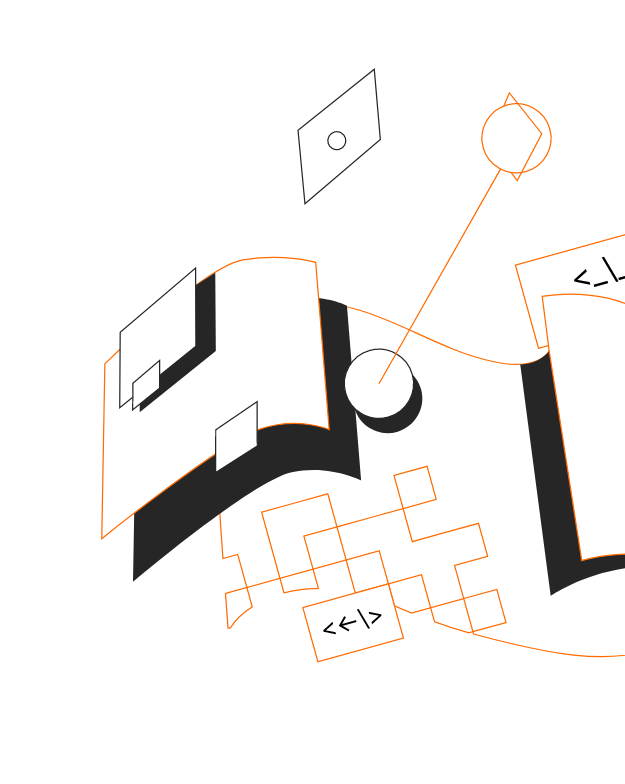
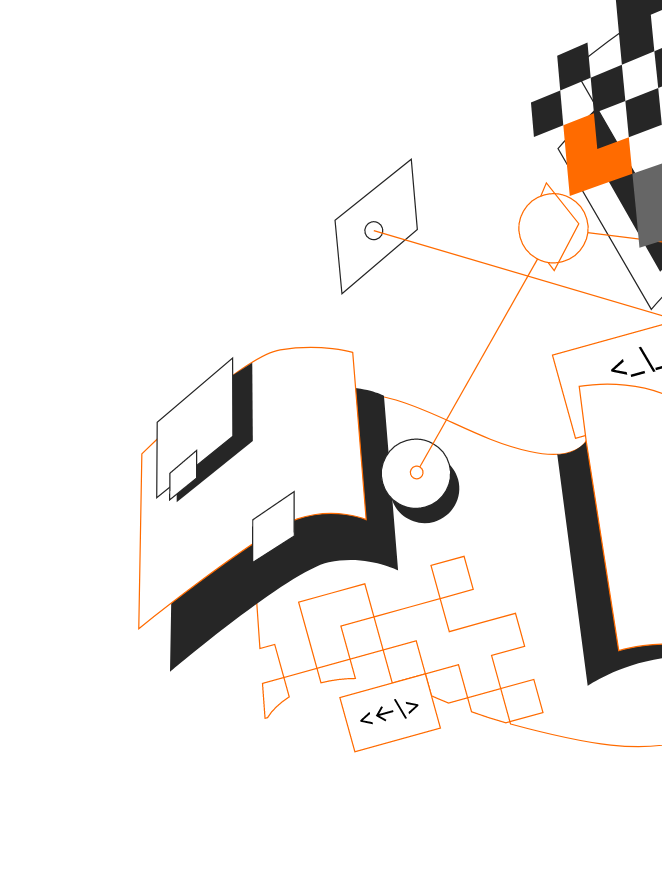
Redo welcome section

diff --git a/index.html b/index.html
@@ -30,9 +30,32 @@
       </ul>
     </nav>
   </header>
-  <section id="welcome" class="welcome-section d-flex w-100">
-    <h1 class="title">HELLO! I'm Roberto</h1>
-    <p>a fullstack web developer</p>
+  <section class="welcome d-flex w-100">
+    <div class="social-box d-flex align-i-center">
+      <ul class="social-list">
+        <li class="item">
+          <a class="profile-link" href="https://github.com/LoboArkano" target="_blank"><i class="fab fa-github"></i></a>
+        </li>
+        <li class="item">
+          <a class="profile-link" href="https://www.linkedin.com/in/jose-roberto-perez-jimenez/" target="_blank"><i class="fab fa-linkedin"></i></a>
+        </li>
+        <li class="item">
+          <a class="profile-link" href="https://angel.co/u/jose-roberto-perez-jimenez" target="_blank"><i class="fab fa-angellist"></i></a>
+        </li>
+        <li class="item">
+          <a class="profile-link" href="https://twitter.com/LoboArcano92" target="_blank"><i class="fab fa-twitter-square"></i></a>
+        </li>
+      </ul>
+    </div>
+    <div class="presentation d-flex">
+      <h1 class="title">Hey There.<br>I'm Roberto</h1>
+      <h2 class="subtitle">I’am a Web Developer</h2>
+      <p class="desc">I can help you build a product , feature or website Look through some of my work and experience! If you like what you see and have a project you need coded, 
+        don’t hestiate to contact me.</p>
+    </div>
+    <div class="main-image-cont">
+      <img class="image w-100 h-100" src="./assets/images/main-background.png" alt="main-background">
+    </div>
   </section>
   <section id="projects" class="projects-section w-100">
     <h2 class="title">These are some of my projects</h2>

diff --git a/assets/stylesheets/style.css b/assets/stylesheets/style.css
@@ -77,4 +77,77 @@ html {
   -webkit-text-decoration: underline 1px #fff;
           text-decoration: underline 1px #fff;
 }
+
+.welcome {
+  height: 100vh;
+  margin-top: 72px;
+  background-color: #1c1a19;
+}
+
+.welcome .social-box {
+  width: 10%;
+  -webkit-box-orient: vertical;
+  -webkit-box-direction: normal;
+      -ms-flex-direction: column;
+          flex-direction: column;
+  -webkit-box-pack: center;
+      -ms-flex-pack: center;
+          justify-content: center;
+  padding-right: 20px;
+}
+
+.welcome .social-box .social-list {
+  width: -webkit-max-content;
+  width: -moz-max-content;
+  width: max-content;
+}
+
+.welcome .social-box .social-list .item {
+  margin-bottom: 10px;
+}
+
+.welcome .social-box .social-list .item .profile-link {
+  font-size: 1.5rem;
+  color: #fff;
+}
+
+.welcome .presentation {
+  -webkit-box-orient: vertical;
+  -webkit-box-direction: normal;
+      -ms-flex-direction: column;
+          flex-direction: column;
+  width: 40%;
+  color: #fff;
+  text-align: left;
+  -webkit-box-pack: center;
+      -ms-flex-pack: center;
+          justify-content: center;
+  padding-left: 20px;
+}
+
+.welcome .presentation .title {
+  font-size: 4rem;
+  color: #f55800;
+  line-height: 65px;
+  margin-bottom: 10px;
+}
+
+.welcome .presentation .subtitle {
+  font-size: 2rem;
+  margin-bottom: 15px;
+}
+
+.welcome .presentation .desc {
+  font-size: 1.4rem;
+  line-height: 25px;
+}
+
+.welcome .main-image-cont {
+  max-width: 50%;
+}
+
+.welcome .main-image-cont .image {
+  -o-object-fit: cover;
+     object-fit: cover;
+}
 /*# sourceMappingURL=style.css.map */

diff --git a/assets/stylesheets/style.scss b/assets/stylesheets/style.scss
@@ -5,6 +5,10 @@
 
 $dark-grey: #3e3c3c;
 
+$darker-grey: #1c1a19;
+
+$orange: #f55800;
+
 $black: #000;
 
 $white: #fff;
@@ -71,6 +75,66 @@ html {
           text-decoration: underline 1px $white;
         }
       }
+    }
+  }
+}
+
+.welcome {
+  height: 100vh;
+  margin-top: 72px;
+  background-color: #1c1a19;
+
+  .social-box {
+    width: 10%;
+    flex-direction: column;
+    justify-content: center;
+    padding-right: 20px;
+
+    .social-list {
+      width: max-content;
+
+      .item {
+        margin-bottom: 10px;
+
+        .profile-link {
+          font-size: 1.5rem;
+          color: $white;
+        }
+      }
+    }
+  }
+
+  .presentation {
+    flex-direction: column;
+    width: 40%;
+    color: $white;
+    text-align: left;
+    justify-content: center;
+    padding-left: 20px;
+
+    .title {
+      font-size: 4rem;
+      color: $orange;
+      line-height: 65px;
+      margin-bottom: 10px;
+    }
+
+    .subtitle {
+      font-size: 2rem;
+      margin-bottom: 15px;
+    }
+
+    .desc {
+      font-size: 1.4rem;
+      line-height: 25px;
+    }
+  }
+
+  .main-image-cont {
+    max-width: 50%;
+
+    .image {
+      object-fit: cover;
     }
   }
 }
